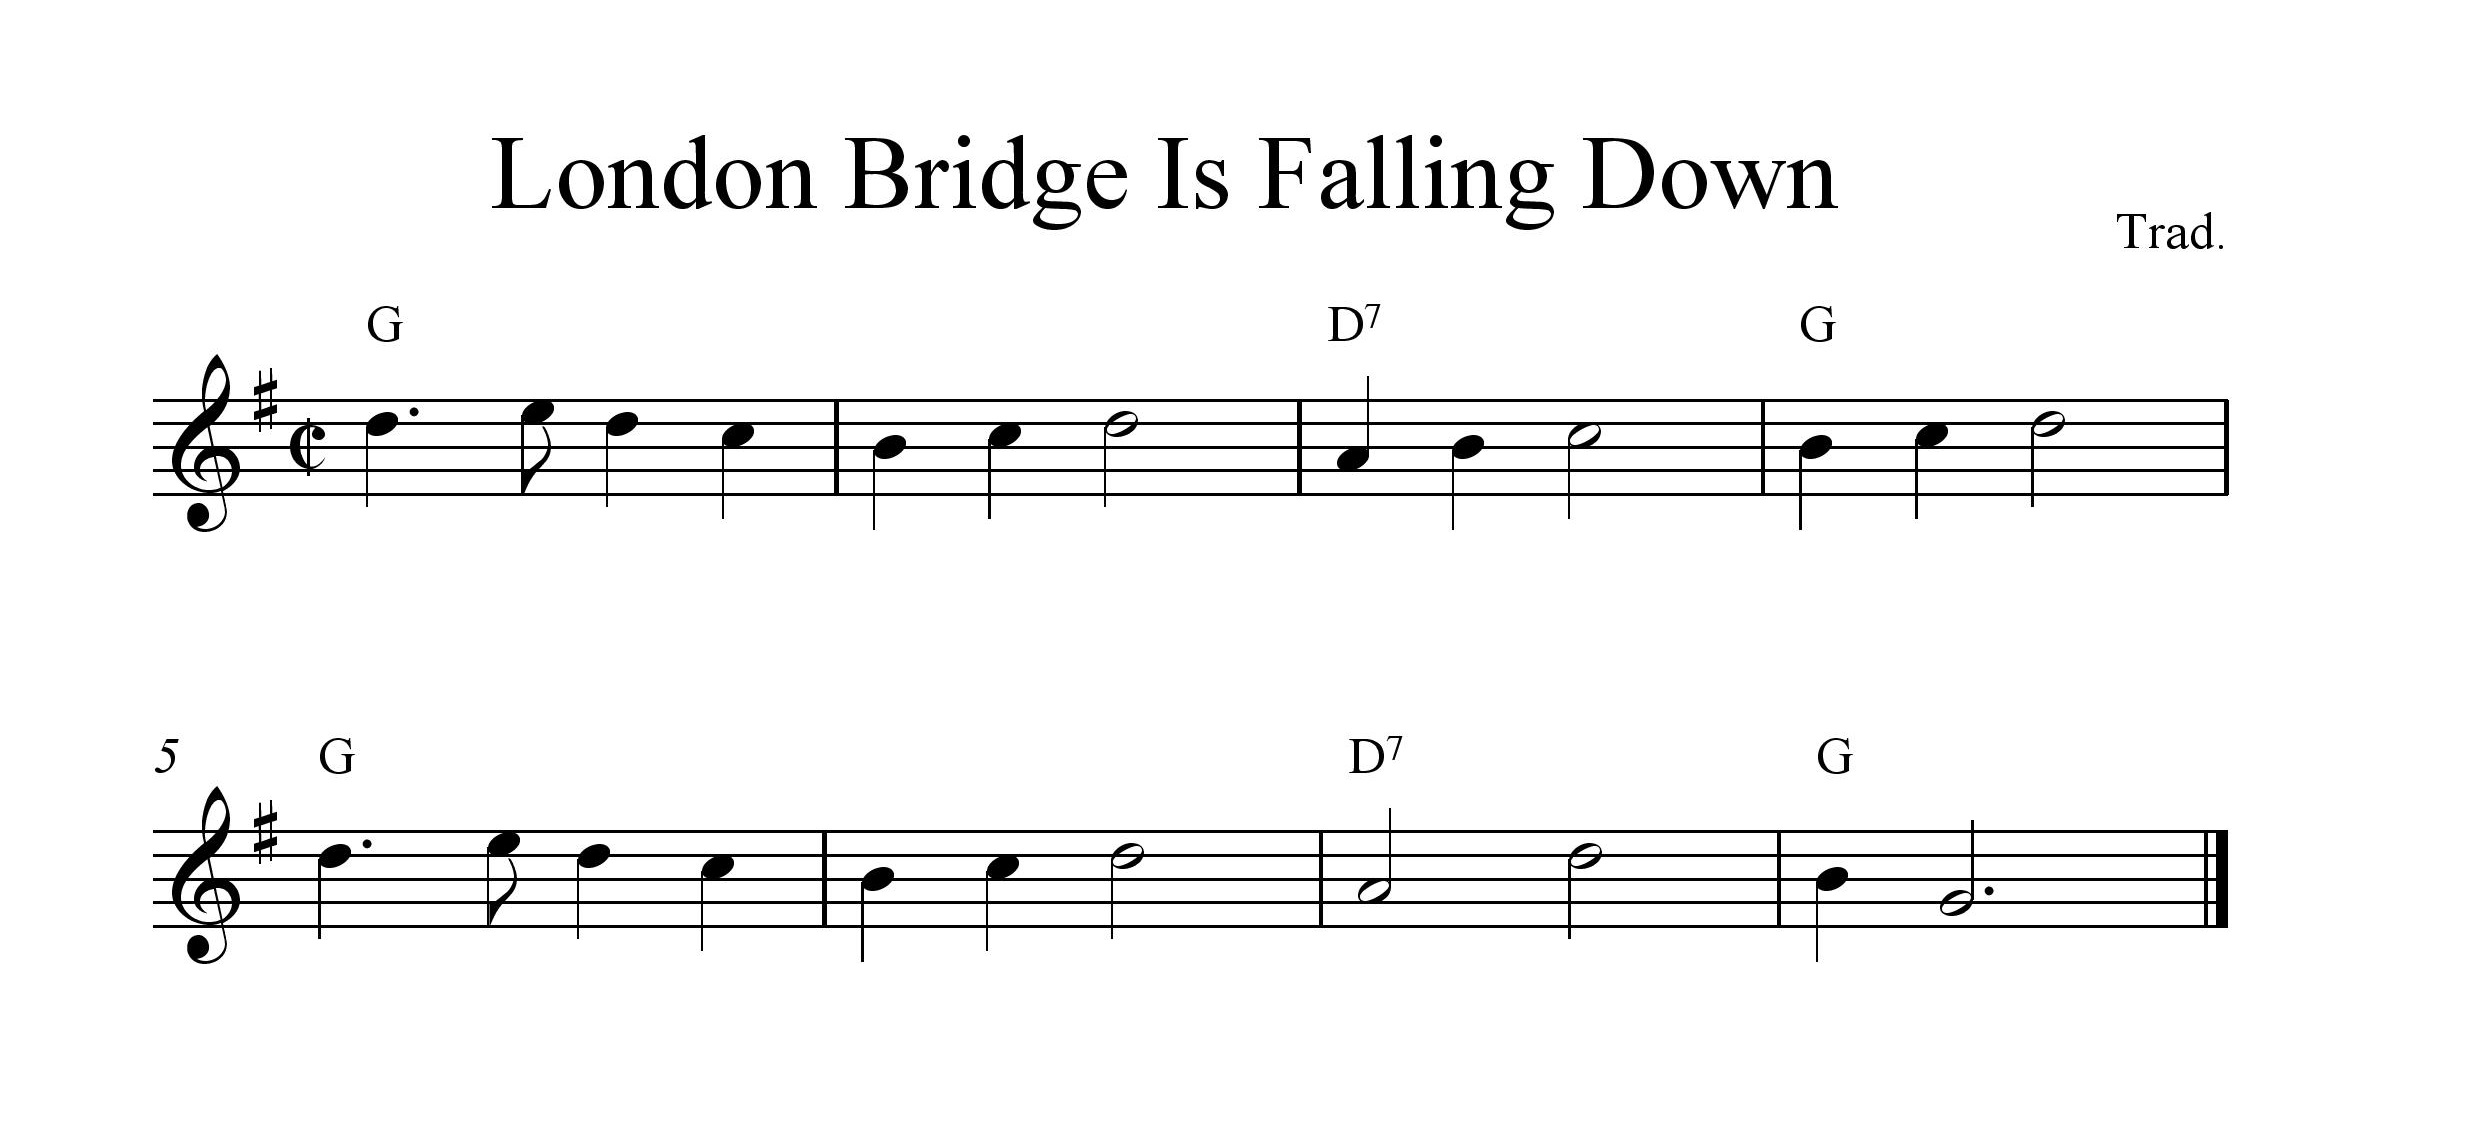
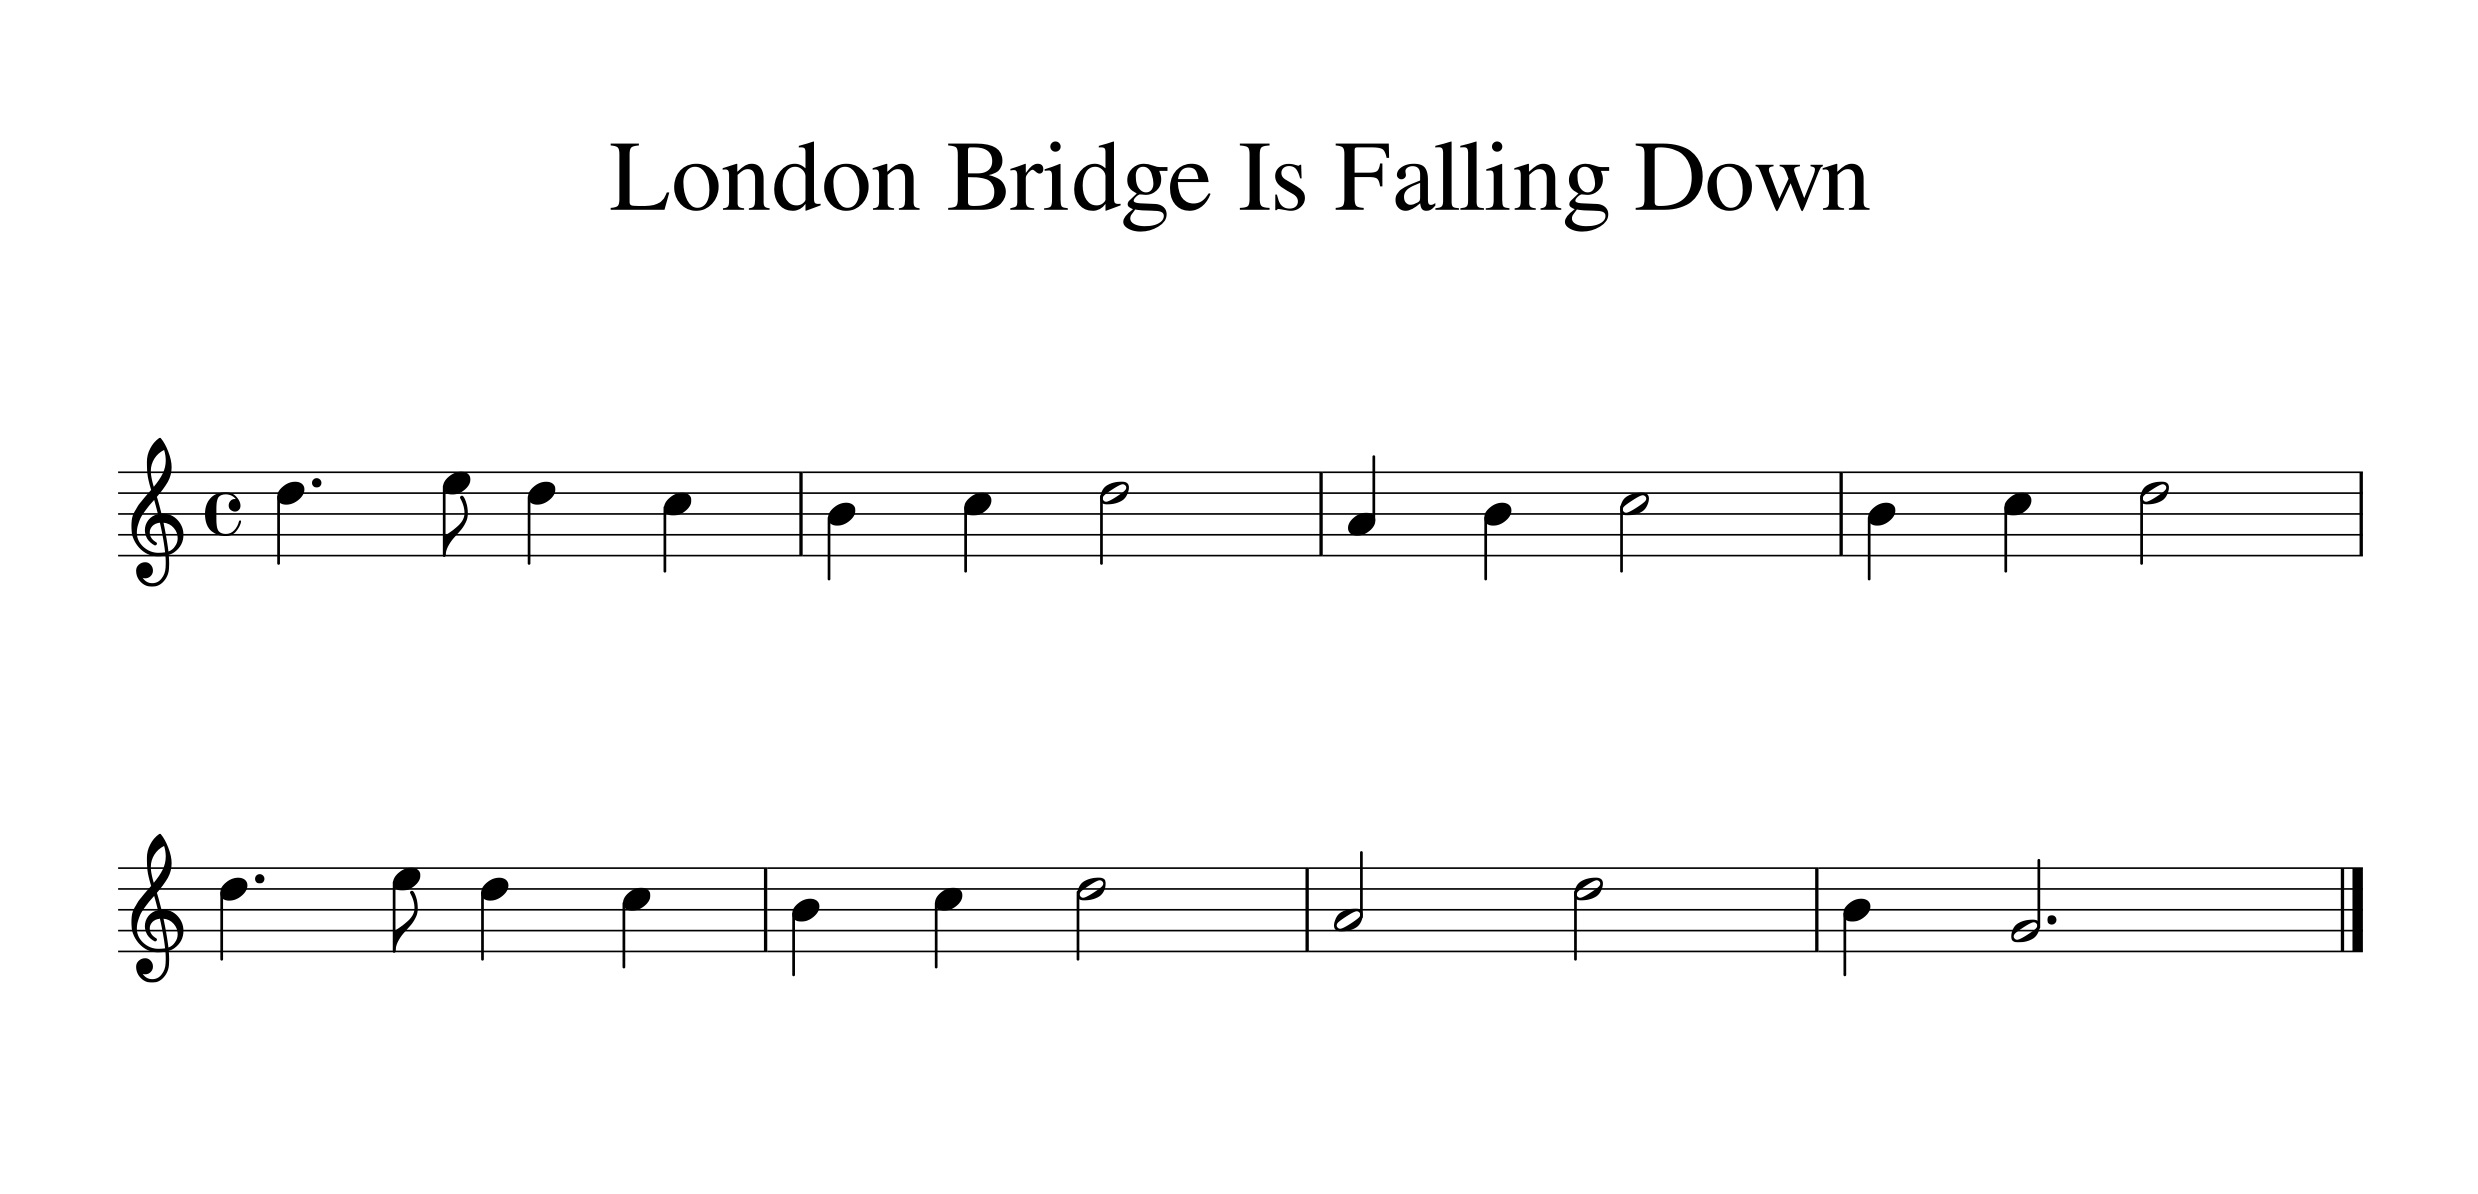
add support for dots and half notes

diff --git a/run_me.m b/run_me.m
@@ -1,6 +1,6 @@
 %% Input
 input_folder = 'input/';
-input_file_name = 'Love Me Tender.jpg';
+input_file_name = 'London Bridge Is Falling Down.jpg';
 training_data_folder = 'train_simple/';
 display_intermediate_result = false;
 
@@ -8,7 +8,7 @@ display_intermediate_result = false;
 disp('Detecting and removing staff lines...');
 file_path = [input_folder input_file_name];
 [cleaned_image, lines] = extractLines(file_path, display_intermediate_result);
-
+unit = ((lines(1, 2)-lines(1, 1))/2 + (lines(1, 3)-lines(1, 2))/2 + (lines(1, 4)-lines(1, 3))/2 + (lines(1, 5)-lines(1, 4))/2)/4;
 %% Musical notation segmentation
 disp('Segmenting musical notations...');
 [boundaries, notation_images, center_points] = segmentImage(cleaned_image, lines, display_intermediate_result);
@@ -23,9 +23,9 @@ notes_match = zeros(size(notation_images, 2));
 for segment_index = 1 : size(notation_images, 2)
     notation_image = notation_images{segment_index};
     center_point = center_points(segment_index, :);
-    [match, graph, rate] = calculateDistance(notation_image, training_images);
+    [match, graph, rate] = calculateDistance(notation_image, training_images, unit);
     notes_match(segment_index) = match;
-    if display_intermediate_result
+    if true
         if match ~= -1
              if mod(segment_index, 25) == 0 || segment_index == 1
                  figure
@@ -47,7 +47,8 @@ end
 %% Convert notes to song
 disp('Detecting notes and duration...');
 [song, note_length, c_count, g_count] = convert_song(notes_match, lines, center_points);
-
+disp(song);
+disp(note_length);
 if g_count == 0
     song_g = [];
     note_length_g = [];

diff --git a/calculateDistance.m b/calculateDistance.m
@@ -8,29 +8,33 @@
 %   match (double): the matching notes
 %   graph (matrix): the matching training image
 %   rate (double): the matching rate
-function [match, graph, rate] = calculateDistance(img, train_data)
+function [match, graph, rate] = calculateDistance(img, train_data, unit)
 
 nfiles = size(train_data, 2);
 scores = zeros(nfiles, 1); 
 [img_h, img_w] = size(img);
 
-for i = 1:nfiles
-    target_img = train_data{i};
-    [h, w] = size(target_img); 
-    input_resize = imresize(img, [h, w]); 
-    input_resize (input_resize < 0.9) = 0;
-    input_resize (input_resize >= 0.9) = 1;  
-    count = 0; 
-    for x = 1:h
-        for y = 1:w
-            if target_img(x, y) == input_resize(x, y)
-               count = count+1; 
+if (img_h < unit) && (img_w < unit)
+    match = 100;
+    graph = img;
+    rate = 0.99;
+else
+    for i = 1:nfiles
+        target_img = train_data{i};
+        [h, w] = size(target_img); 
+        input_resize = imresize(img, [h, w]); 
+        input_resize (input_resize < 0.9) = 0;
+        input_resize (input_resize >= 0.9) = 1;  
+        count = 0; 
+        for x = 1:h
+            for y = 1:w
+                if target_img(x, y) == input_resize(x, y)
+                   count = count+1; 
+                end
             end
         end
-    end
-    scores(i, 1) = count/(h*w); 
-
-end 
+        scores(i, 1) = count/(h*w); 
+    end 
     [M, I] = max(scores); 
     %disp(scores);
     if I == 11 && img_h > img_w*3 || M < 0.8
@@ -44,6 +48,7 @@ end
         graph = imresize(train_data{I}, [img_h, img_w]);
         rate = M;
     end
+end
     
 end
 

diff --git a/calculateCenterPoint.m b/calculateCenterPoint.m
@@ -12,22 +12,24 @@ function [center_point_x, center_point_y] = calculateCenterPoint(notation_image)
 [notation_image_height, notation_image_width] = size(notation_image);
 
 % Try to remove the vertical line on a musical notation
-for row = 1 : notation_image_height
-    black_pixel_count = 0;
+if notation_image_height > notation_image_width*2.5
+    for row = 1 : notation_image_height
+        black_pixel_count = 0;
 
-    % Count the number of black pixels on the row
-    for column = 1 : notation_image_width
-        if notation_image(row, column) == 0
-            black_pixel_count = black_pixel_count + 1;
+        % Count the number of black pixels on the row
+        for column = 1 : notation_image_width
+            if notation_image(row, column) == 0
+                black_pixel_count = black_pixel_count + 1;
+            end
         end
-    end
 
-    % If the black pixel count is smaller than a fifth of the image, assume
-    % that it is a vertical line
-    if black_pixel_count < notation_image_width / 5
+        % If the black pixel count is smaller than a fifth of the image, assume
+        % that it is a vertical line
+        if black_pixel_count < notation_image_width / 3
 
-        % Remove vertical line
-        notation_image(row, 1 : notation_image_width) = 1;
+            % Remove vertical line
+            notation_image(row, 1 : notation_image_width) = 1;
+        end
     end
 end
 

diff --git a/convert_song.m b/convert_song.m
@@ -33,6 +33,13 @@ for i = 1:length
           note_counter(clef) = note_counter(clef)+1;    
           flat = false;
           sharp = false;
+      elseif notes_match(i) == 21 || notes_match(i) == 22 || notes_match(i) == 23 || notes_match(i) == 20
+          note_length(clef, note_counter(clef)) = 0.5;
+          num = round((centers(line_counter)-center_points(i, 2))/unit);
+          song(clef, note_counter(clef)) = convert(num, clef, notes_1, notes_2, flat, sharp);
+          note_counter(clef) = note_counter(clef)+1;    
+          flat = false;
+          sharp = false;
       elseif notes_match(i) == 11
           upper_line = centers(line_counter)+unit*2;
           if upper_line-center_points(i, 2) < center_points(i, 2)-centers(line_counter)
@@ -66,6 +73,8 @@ for i = 1:length
           flat = true;
       elseif notes_match(i) == 19
           
+      elseif notes_match(i) == 100
+          note_length(clef, note_counter(clef)-1) = note_length(clef, note_counter(clef)-1)*1.5;
       end
    end
 end
